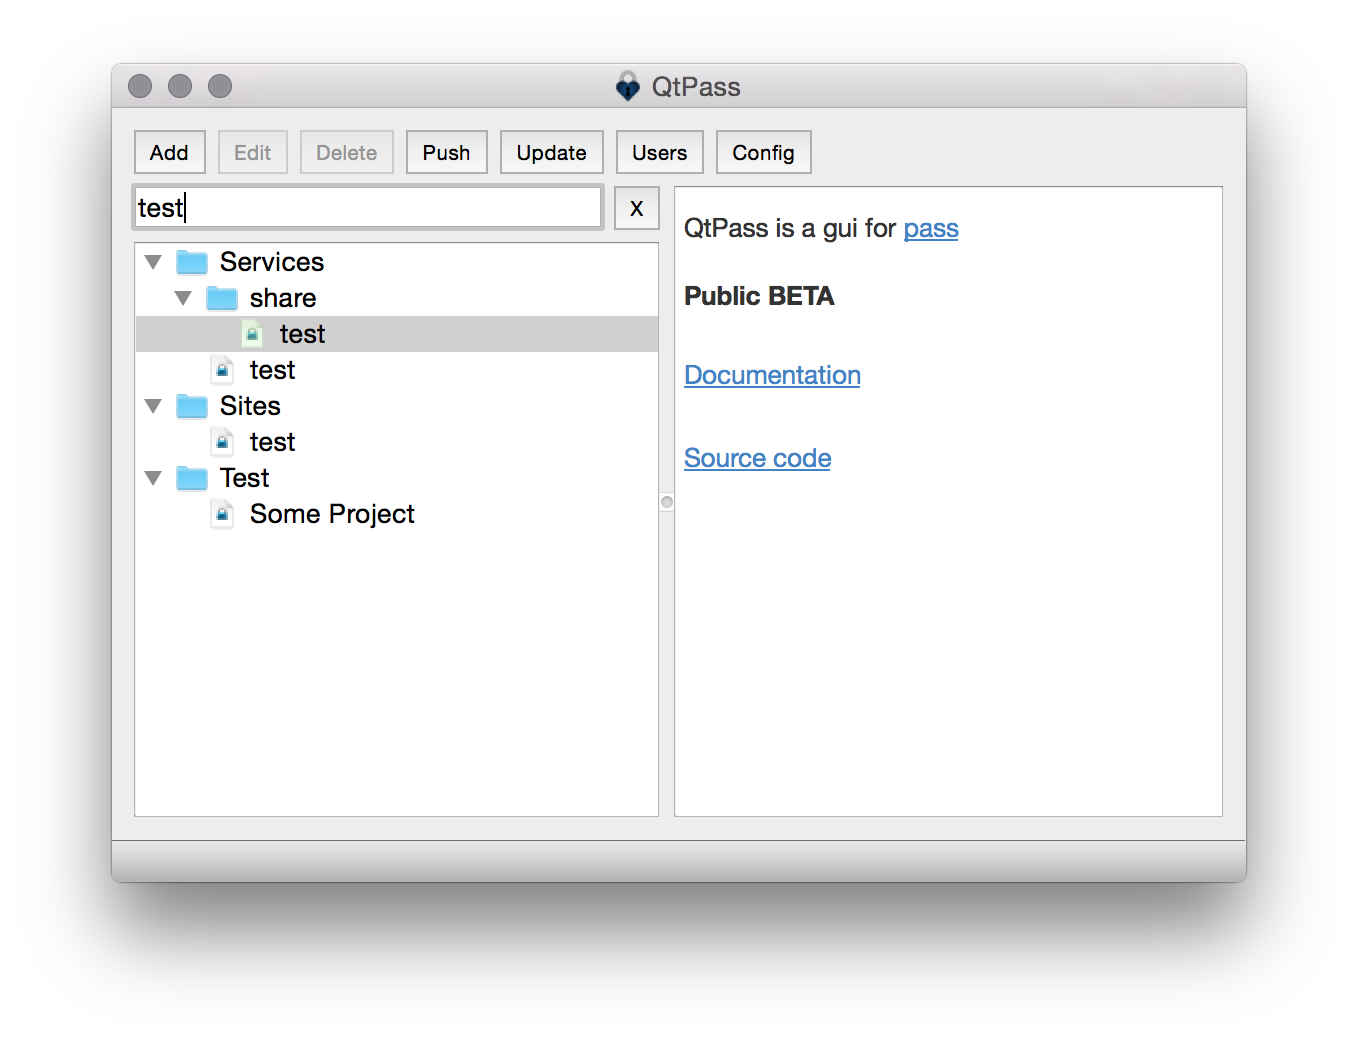
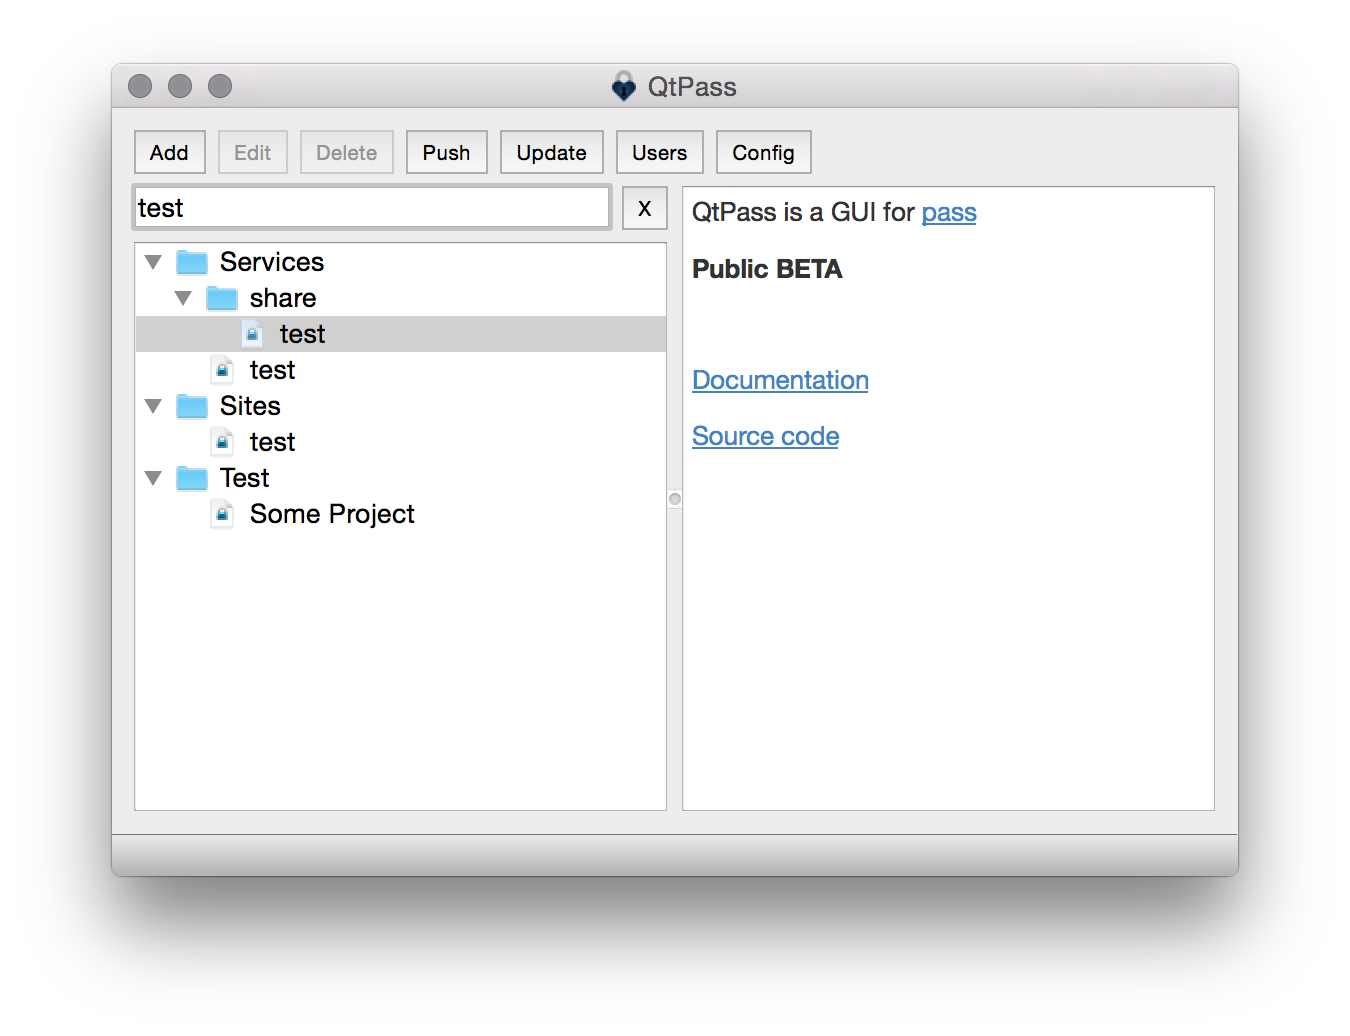
new screenshot, more words

Changed region(s): [[0.0933, 0.1236, 0.7156, 0.5251], [0.4667, 0.3398, 0.6533, 0.4942], [0.4978, 0.0618, 0.56, 0.0927]]

diff --git a/index.html b/index.html
@@ -37,9 +37,16 @@
 
 <ul>
 <li>Using <a href="http://www.passwordstore.org/">pass</a> or git and gpg2 directly</li>
-<li>Configurable shoulder surfing protection options</li>
-<li>Cross platform: Linux, BSD, OS X and Windows</li>
+<li>Cross platform: Linux, BSD, <a href="https://annejan.com/media/qtpass.dmg">OS X</a> and Windows</li>
+<li>Reading pass password stores</li>
+<li>Decrypting and displaying the password info</li>
+<li>Updating from the git repository</li>
+<li>Editing and adding of passwords</li>
 <li>Per-folder user selection for multi recipient encryption</li>
+<li>Configuration options for backends and executable/folder locations</li>
+<li>Copying password to clipboard</li>
+<li>Configurable shoulder surfing protection options</li>
+<li>Experimental WebDAV support </li>
 </ul>
 
 <p>While QtPass will work with Qt4, currently multi-line editing is restricted to Qt5 only.</p>
